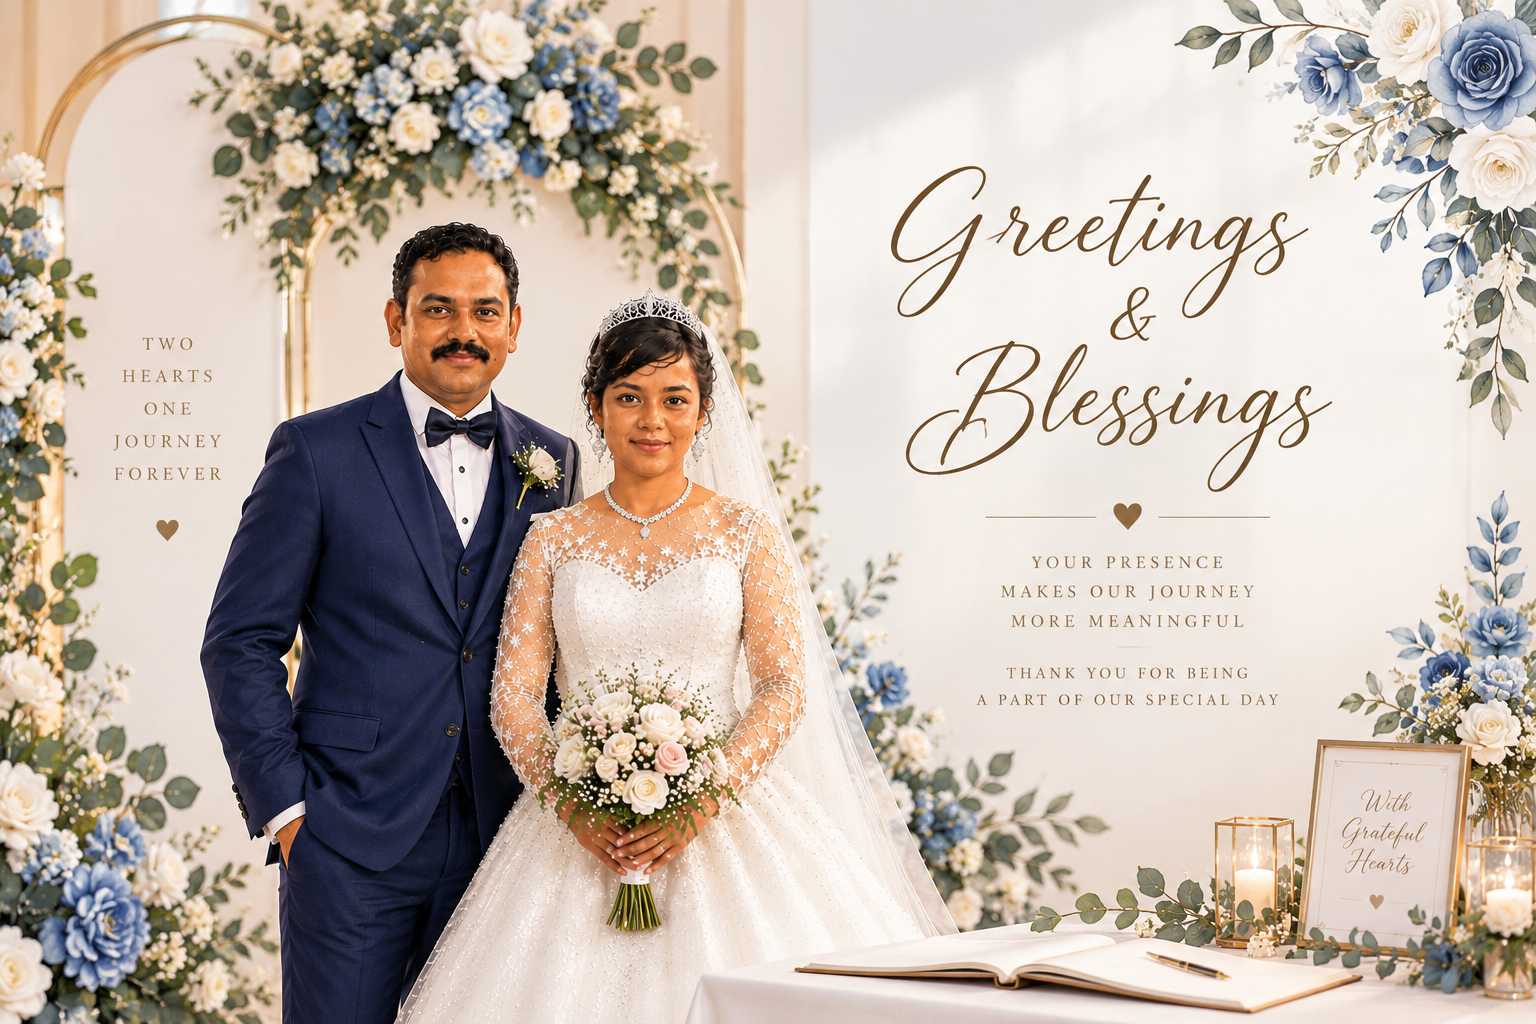
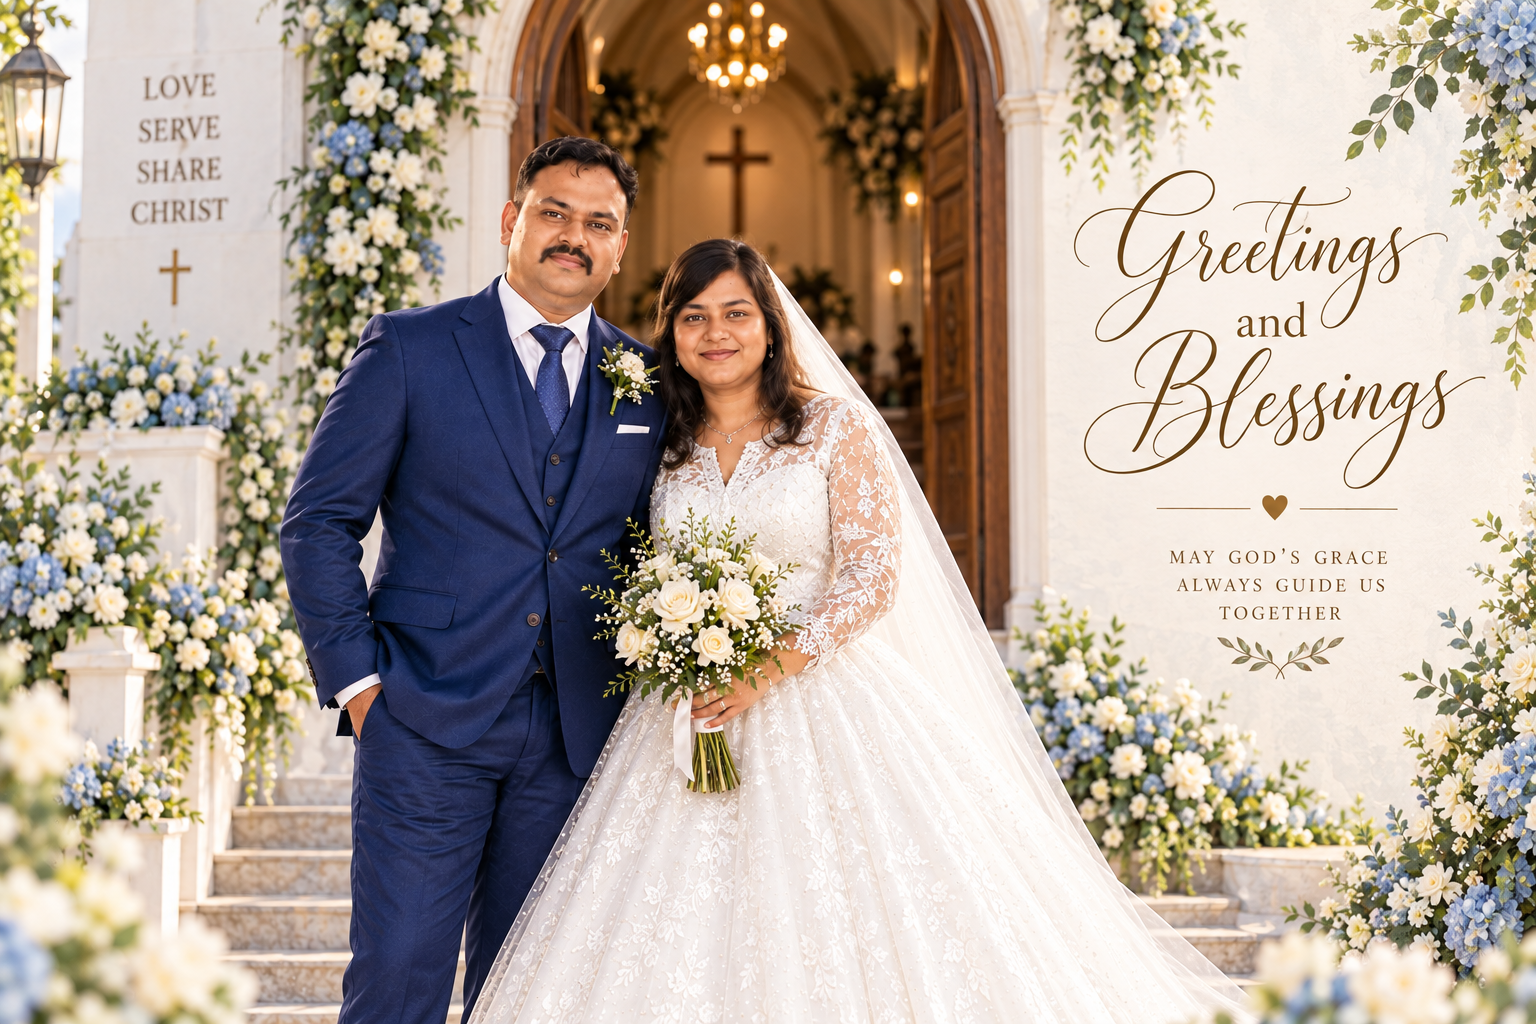
Fix opening screen click overlay

diff --git a/components/Timeline.tsx b/components/Timeline.tsx
@@ -19,7 +19,7 @@ const events = [
         Holy Immanuel Church, Pattakkarai
       </>
     ),
-    image: "/images/en.png",
+    image: "/images/En.png",
   },
   {
     date: "4 DECEMBER 2026",
@@ -33,7 +33,7 @@ const events = [
         Pattakkarai
       </>
     ),
-    image: "/images/wc.png",
+    image: "/images/WC.png",
   },
   {
     date: null,
@@ -48,7 +48,7 @@ const events = [
         Pattakkarai
       </>
     ),
-    image: "/images/gb.png",
+    image: "/images/GB.png",
   },
   {
     date: null,
@@ -62,7 +62,7 @@ const events = [
         Pattakkarai
       </>
     ),
-    image: "/images/ln.png",
+    image: "/images/Ln.png",
   },
 ];
 

diff --git a/components/Footer.tsx b/components/Footer.tsx
@@ -266,7 +266,7 @@ export default function Footer() {
           </span>
 
           <span className="footer-heart-button-text">
-            One more moment
+            One more moment <span className="sp1">(click)</span>
           </span>
 
           <span
@@ -276,6 +276,8 @@ export default function Footer() {
             ✦
           </span>
         </button>
+
+        <h6></h6>
 
         {/* =================================================
             BOTTOM ORNAMENT

diff --git a/app/globals.css b/app/globals.css
@@ -31809,3 +31809,7 @@ body:has(
   }
 }
 
+.sp1{
+  font-size: 8px;
+  color: grey;
+}
